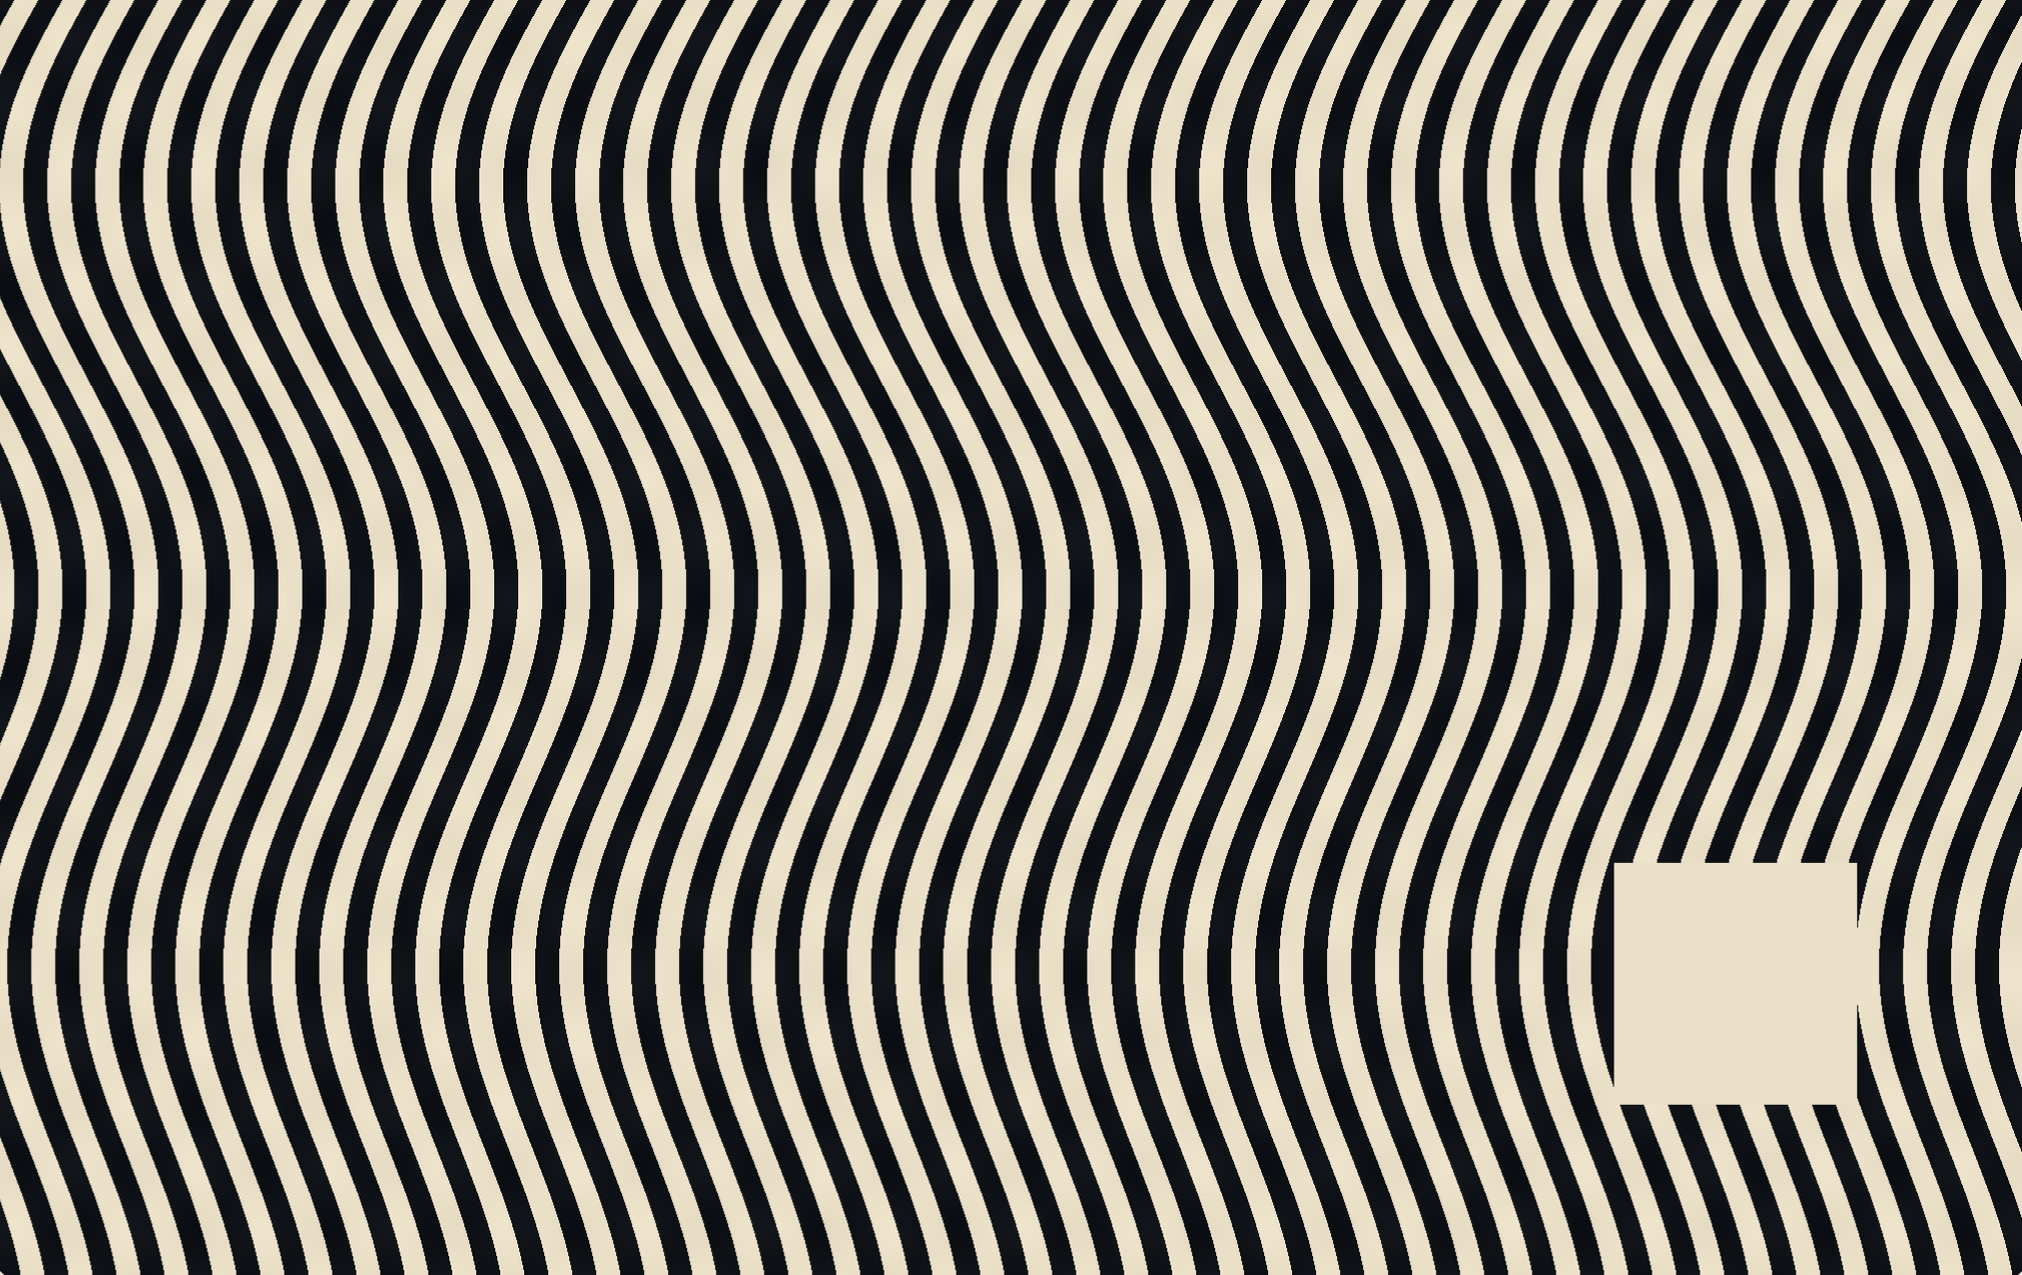
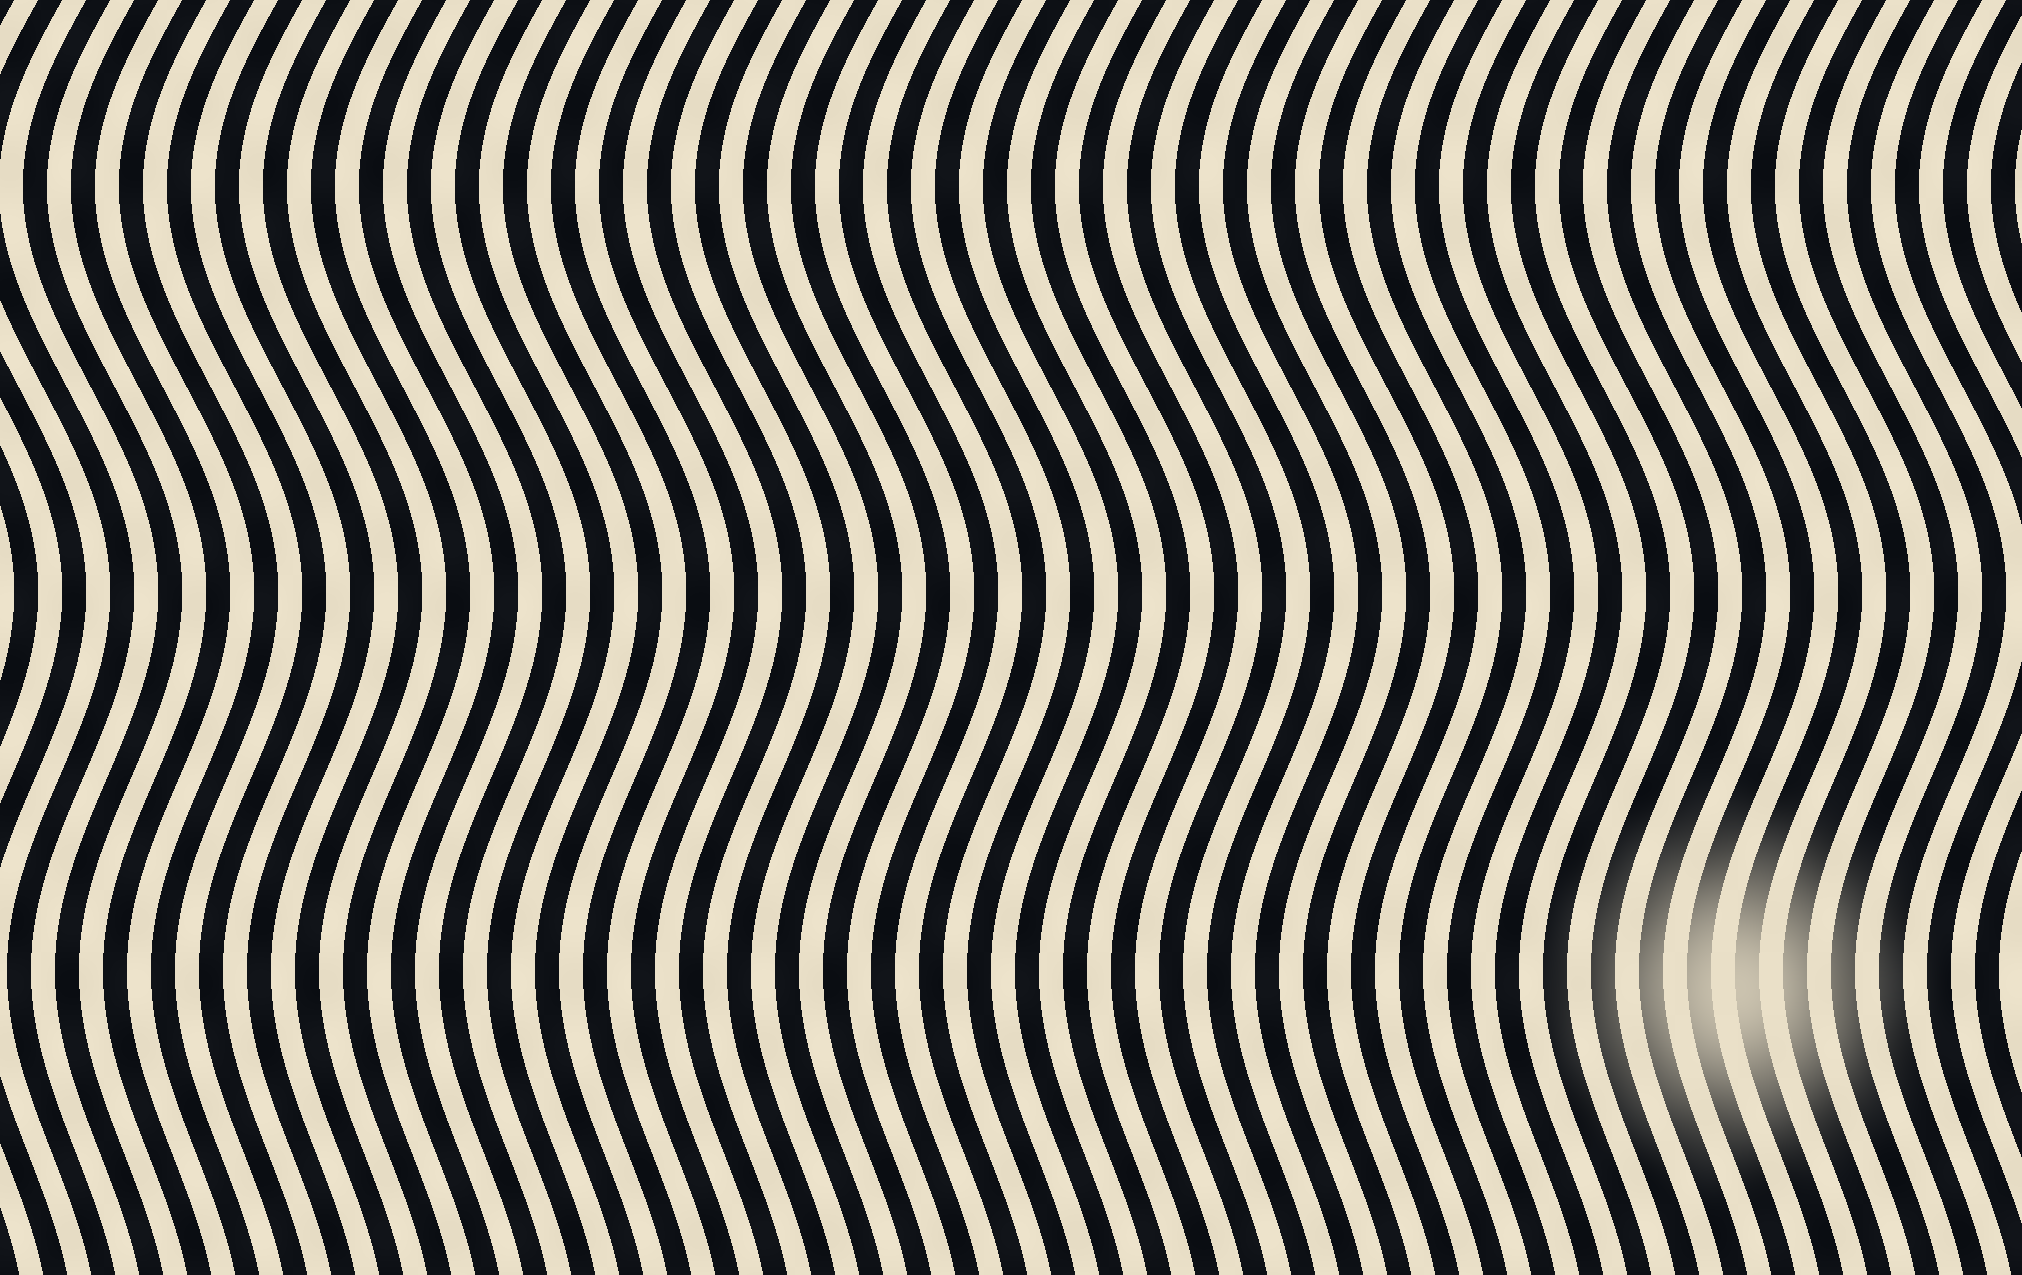
The blank square reserved for the tap symbol printed as a hole in the card
Card 007's front is a stripe field edge to edge, and its generator cut a
hard-edged rectangle straight out of it: thirteen lines that test each
pixel against the tap mark's box, write flat washi, and `continue`. On
the printed card that is a missing chunk. The brief's own next paragraph
already had the words for it — "a card that has merely dodged it looks
like something is missing from the corner" — which is the tell that the
document, not the generator, is what went wrong.

THE BRIEF SAID BOTH THINGS AT ONCE. Literally: the box "must contain
nothing". Then three sentences later, as guidance: "Compose around it.
Leave it clean sky, flat metal, or shadow." Clean sky IS something. A
generator takes the absolute, because prose has no precedence rules, and
the qualification that arrives three sentences later arrives too late.
Both the brief and the paste prompt now LEAD with "the artwork must run
continuously through that square, never cut a hole" and state the real
constraint, which is low local CONTRAST — a thing that cannot be
satisfied by deleting anything.

WHY THE SQUARE STILL NEEDS SOMETHING, tested rather than assumed: the
mark is transparent line art with no backing plate. Composited straight
onto 1 mm alternating black and cream bands its strokes vanish into the
dark ones and the radio waves disappear entirely. So the field now runs
through the area with its CONTRAST falling off on a smoothstep ellipse.
[…]

diff --git a/examples/kaze-card/package/index.html b/examples/kaze-card/package/index.html
@@ -203,7 +203,7 @@
   "url": "CARD_URL_PENDING",
   "tap_mark": {
     "color": "black",
-    "reason": "mean luminance 224 of 255 under x 68.3-78.6, y 36.7-47.0 mm - flat washi field"
+    "reason": "mean luminance 173 of 255 under x 68.3-78.6, y 36.7-47.0 mm - the stripe field runs through the area with its contrast faded toward washi, not erased. Was 224 when this box was a flat panel; the panel printed as a hole and was replaced by a falloff."
   },
   "provides": "kresling-miura-compound solver",
   "consumes": [
@@ -346,7 +346,7 @@
 </div>
 
 <div class="panel" style="font-size:11px;color:#777">
-  <p>© 2026 Kaze-Kiri. MIT License. Card is self-contained, no network, system fonts only, images as data URIs with correct MIME. Offline gate: open from disk, renders identical. QR payload is CARD_URL_PENDING — burned in on intake, not invented. Tap mark box x 68.3–78.6, y 36.7–47.0 mm left empty as flat washi, black mark chosen after measuring luminance 224/255.</p>
+  <p>© 2026 Kaze-Kiri. MIT License. Card is self-contained, no network, system fonts only, images as data URIs with correct MIME. Offline gate: open from disk, renders identical. QR payload is CARD_URL_PENDING — burned in on intake, not invented. Tap mark box x 68.3–78.6, y 36.7–47.0 mm: the stripe field runs through it with its contrast faded toward washi, so the pattern stays continuous and nothing is erased. Black mark chosen after measuring luminance 173/255 there.</p>
 </div>
 
 </div>
@@ -377,19 +377,41 @@ function drawWarpedStripes(ctx, W, H, opts) {
   var data = imgData.data;
   var mmToPxX = W/87.5;
   var mmToPxY = H/55.88;
+  // THE TAP MARK'S AREA IS CALMED, NOT ERASED.
+  //
+  // This used to fill the rectangle with flat washi and `continue`, which cut a
+  // hard-edged rectangular hole straight through the stripe field. On the
+  // printed card it read as a missing chunk — the brief's own words for it are
+  // "one that merely dodged it looks like something is missing from the corner",
+  // which is exactly what it looked like.
+  //
+  // The mark is transparent line art, thin black strokes with no backing plate,
+  // so it does need somewhere quiet to sit: laid straight onto 1 mm alternating
+  // black and cream bands its strokes vanish into the black ones and the radio
+  // waves disappear entirely. That was tested, not assumed.
+  //
+  // So the field runs continuously through the area and its CONTRAST falls off
+  // instead, on a smoothstep ellipse. Every band stays visible and keeps its
+  // shape; they just fade toward washi near the centre. On a pleated surface
+  // that reads as light falling across the folds, which is what the object
+  // actually does, so the quiet patch is part of the picture rather than a
+  // panel laid over it. Mean luminance under the box goes 224 (flat) -> 173,
+  // still above 128, so the mark stays BLACK.
   var tapX0 = (0.95+68.3)*mmToPxX;
   var tapX1 = (0.95+78.6)*mmToPxX;
   var tapY0 = (0.95+36.7)*mmToPxY;
   var tapY1 = (0.95+47.0)*mmToPxY;
+  var tapCX = (tapX0+tapX1)/2, tapCY = (tapY0+tapY1)/2;
+  var tapRX = (tapX1-tapX0)*0.92, tapRY = (tapY1-tapY0)*0.92;
   var twistFactor = twistDeg/38;
   for(var y=0;y<H;y++){
     var warp = A * Math.sin(k*y) * twistFactor + (A*0.3)*Math.sin(k*0.5*y*1.3);
+    var dy = (y-tapCY)/tapRY;
     for(var x=0;x<W;x++){
       var idx = (y*W+x)*4;
-      if(x>=tapX0 && x<=tapX1 && y>=tapY0 && y<=tapY1){
-        data[idx]=washi[0];data[idx+1]=washi[1];data[idx+2]=washi[2];data[idx+3]=255;
-        continue;
-      }
+      var dx = (x-tapCX)/tapRX;
+      var t = 1 - Math.sqrt(dx*dx + dy*dy);
+      var calm = t <= 0 ? 0 : (t >= 1 ? 0.86 : t*t*(3-2*t)*0.86);
       var xw = x + warp;
       var band = Math.floor(xw / bandW);
       var isWashi = (band % 2 === 0);
@@ -400,6 +422,14 @@ function drawWarpedStripes(ctx, W, H, opts) {
       r = Math.max(0,Math.min(255,r+grain));
       g = Math.max(0,Math.min(255,g+grain));
       b = Math.max(0,Math.min(255,b+grain));
+      // The falloff lifts the band toward washi rather than replacing it, so a
+      // black band inside the patch is still a band — lighter, same edges, same
+      // width. calm is 0 across almost the whole card.
+      if(calm > 0){
+        r = r + (washi[0]-r)*calm;
+        g = g + (washi[1]-g)*calm;
+        b = b + (washi[2]-b)*calm;
+      }
       data[idx]=r;data[idx+1]=g;data[idx+2]=b;data[idx+3]=255;
     }
   }

diff --git a/src/site/index.html b/src/site/index.html
@@ -296,12 +296,12 @@ footer{border-top:1px solid var(--rule);padding:clamp(34px,8vw,52px) 0 clamp(40p
   <div class="rack">
     <div class="deck" tabindex="0" aria-label="Cards, front and back">
       <figure class="card">
-        <img class="face" src="card-1.png" width="900" height="568"
+        <img class="face" src="card-1.png" width="874" height="542"
              alt="A black business card with a portrait, a name, and a job title">
         <figcaption class="cap">The founder card <i>&middot; front</i></figcaption>
       </figure>
       <figure class="card">
-        <img class="face" src="card-2.png" width="900" height="568" loading="lazy" decoding="async"
+        <img class="face" src="card-2.png" width="874" height="542" loading="lazy" decoding="async"
              alt="The back of the same card: the words Vibe Cards, a web address, and a code to scan">
         <figcaption class="cap">The founder card <i>&middot; back</i></figcaption>
       </figure>
